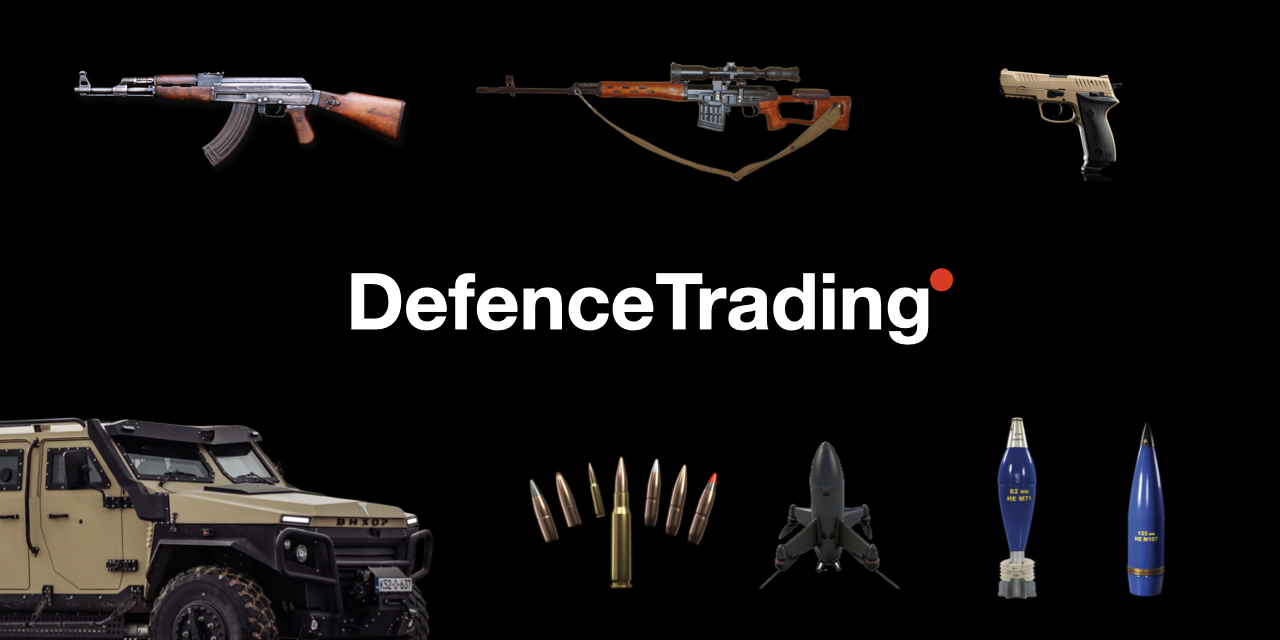
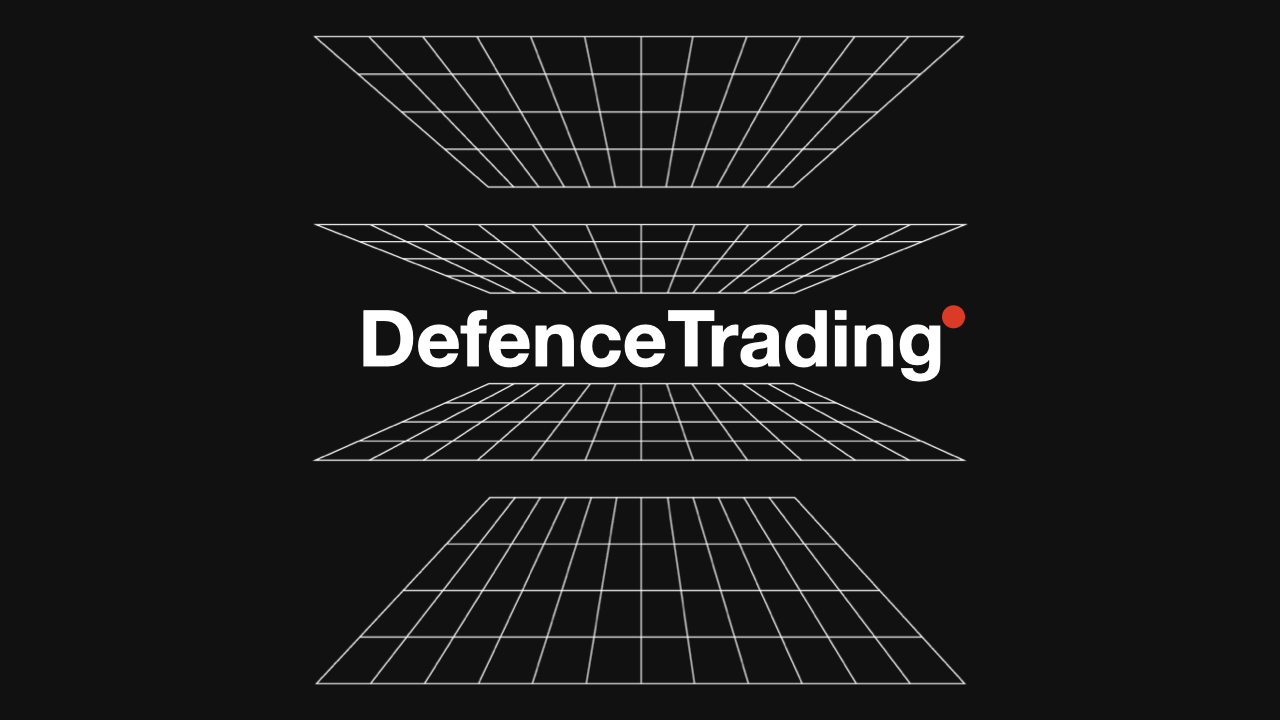
Page loader: D letter split animation, OG image update
- D splits from top/bottom and merges together on page load
- Red dot pops in after D forms
- Updated OG thumbnail image
- Positioned dot closer to D

diff --git a/src/app/globals.css b/src/app/globals.css
@@ -296,6 +296,42 @@ a { color: inherit; }
 .sub-toast { position: fixed; bottom: 32px; right: 32px; background: #fff; color: #111; border: 1.5px solid #111; font-size: 14px; font-weight: 600; padding: 16px 24px; z-index: 9999; opacity: 0; transform: translateY(12px); transition: opacity 0.3s, transform 0.3s; pointer-events: none; max-width: 340px; line-height: 1.4; }
 .sub-toast.show { opacity: 1; transform: translateY(0); }
 
+/* ── PAGE LOADER ── */
+.page-loader {
+  position: fixed; inset: 0; z-index: 10000;
+  background: #f0f0f0;
+  display: flex; align-items: center; justify-content: center;
+  opacity: 1; transition: opacity 0.4s ease;
+  pointer-events: all;
+}
+.page-loader.fade-out { opacity: 0; pointer-events: none; }
+.page-loader-content { display: flex; flex-direction: column; align-items: center; }
+.pl-d-wrap { position: relative; width: 60px; height: 72px; }
+.pl-d-letter { font-size: 72px; font-weight: 900; color: #000; line-height: 1; display: block; letter-spacing: -2px; }
+.pl-d-top { position: absolute; top: 0; left: 0; width: 100%; height: 50%; overflow: hidden; animation: pl-top-in 0.5s cubic-bezier(0.22, 1, 0.36, 1) forwards; }
+.pl-d-top .pl-d-letter { position: relative; top: 0; }
+.pl-d-bottom { position: absolute; bottom: 0; left: 0; width: 100%; height: 50%; overflow: hidden; animation: pl-bottom-in 0.5s cubic-bezier(0.22, 1, 0.36, 1) forwards; }
+.pl-d-bottom .pl-d-letter { position: relative; bottom: 0; top: -36px; }
+.page-loader-dot {
+  position: absolute; top: 4px; right: -4px;
+  width: 10px; height: 10px;
+  background: #e00; border-radius: 50%;
+  opacity: 0; animation: pl-dot-pop 0.3s ease forwards 0.45s;
+}
+@keyframes pl-top-in {
+  0% { transform: translateY(-40px); opacity: 0; }
+  100% { transform: translateY(0); opacity: 1; }
+}
+@keyframes pl-bottom-in {
+  0% { transform: translateY(40px); opacity: 0; }
+  100% { transform: translateY(0); opacity: 1; }
+}
+@keyframes pl-dot-pop {
+  0% { opacity: 0; transform: scale(0); }
+  60% { transform: scale(1.4); opacity: 1; }
+  100% { transform: scale(1); opacity: 1; }
+}
+
 /* ── SPINNER ── */
 @keyframes spin { to { transform: rotate(360deg); } }
 .media-spinner-wrap { position: absolute; inset: 0; display: flex; align-items: center; justify-content: center; z-index: 1; }

diff --git a/src/components/PageLoader.tsx b/src/components/PageLoader.tsx
@@ -1,0 +1,40 @@
+'use client'
+
+import { useEffect, useState } from 'react'
+import { usePathname } from 'next/navigation'
+
+export default function PageLoader() {
+  const pathname = usePathname()
+  const [loading, setLoading] = useState(false)
+  const [visible, setVisible] = useState(false)
+
+  useEffect(() => {
+    setLoading(true)
+    setVisible(true)
+
+    const timer = setTimeout(() => {
+      setLoading(false)
+      setTimeout(() => setVisible(false), 500)
+    }, 800)
+
+    return () => clearTimeout(timer)
+  }, [pathname])
+
+  if (!visible) return null
+
+  return (
+    <div className={`page-loader${loading ? ' active' : ' fade-out'}`}>
+      <div className="page-loader-content">
+        <div className="pl-d-wrap">
+          <div className="pl-d-top">
+            <span className="pl-d-letter">D</span>
+          </div>
+          <div className="pl-d-bottom">
+            <span className="pl-d-letter">D</span>
+          </div>
+          <span className="page-loader-dot" />
+        </div>
+      </div>
+    </div>
+  )
+}

diff --git a/src/app/layout.tsx b/src/app/layout.tsx
@@ -3,6 +3,7 @@ import Script from 'next/script'
 import './globals.css'
 import Nav from '@/components/Nav'
 import Footer from '@/components/Footer'
+import PageLoader from '@/components/PageLoader'
 
 export const metadata: Metadata = {
   title: {
@@ -47,6 +48,7 @@ export default function RootLayout({ children }: { children: React.ReactNode }) 
         `}</Script>
       </head>
       <body>
+        <PageLoader />
         <Nav />
         {children}
         <Footer />
